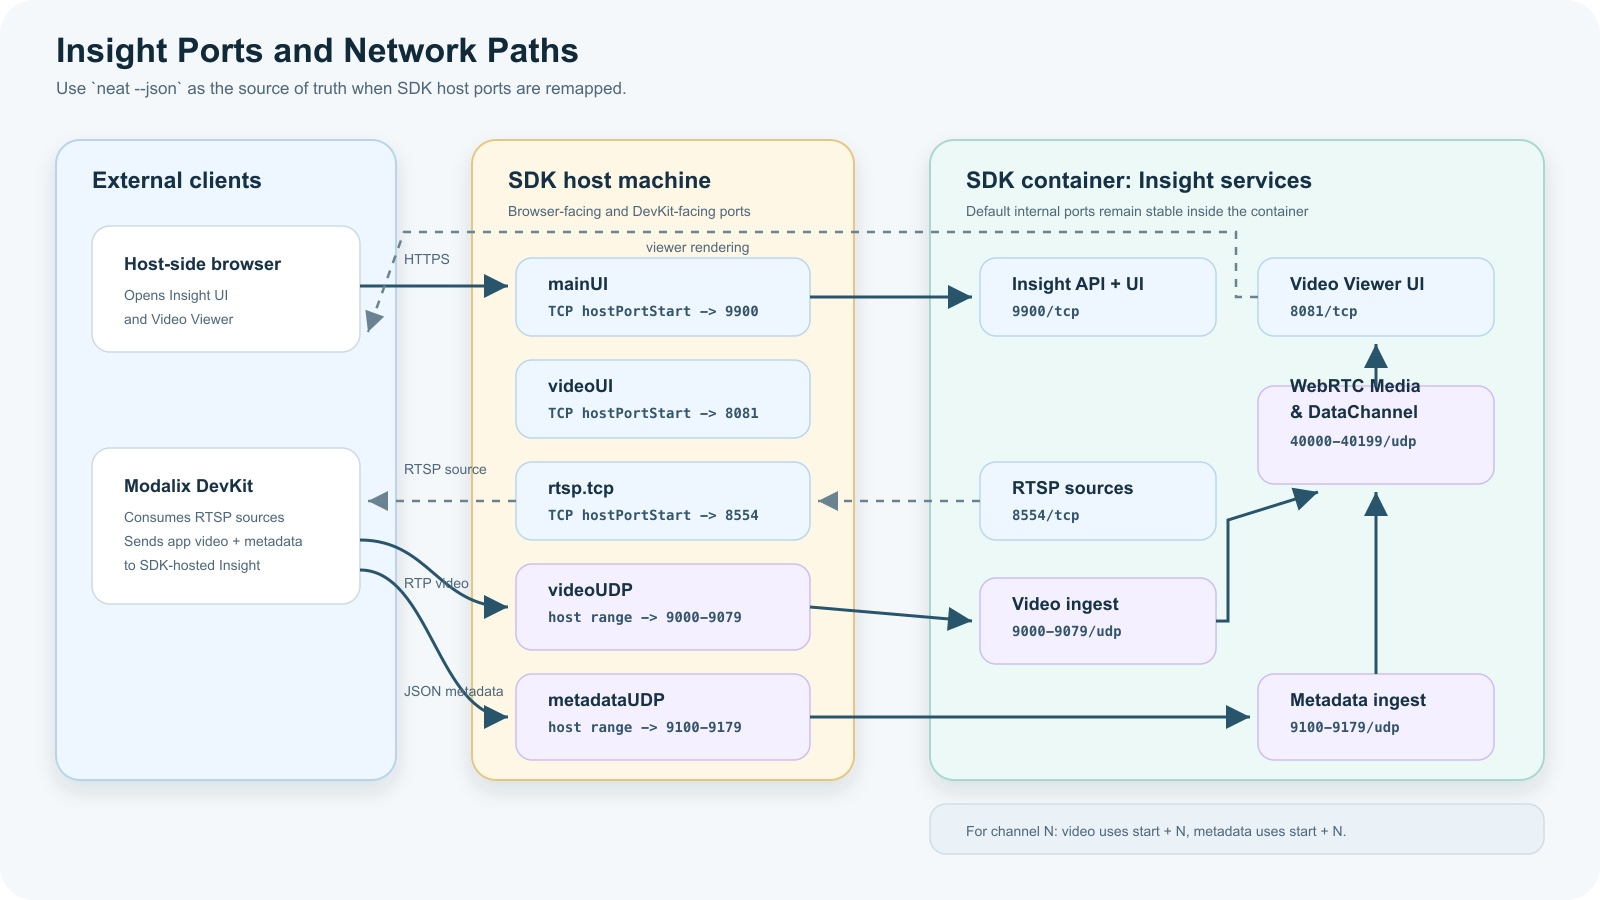
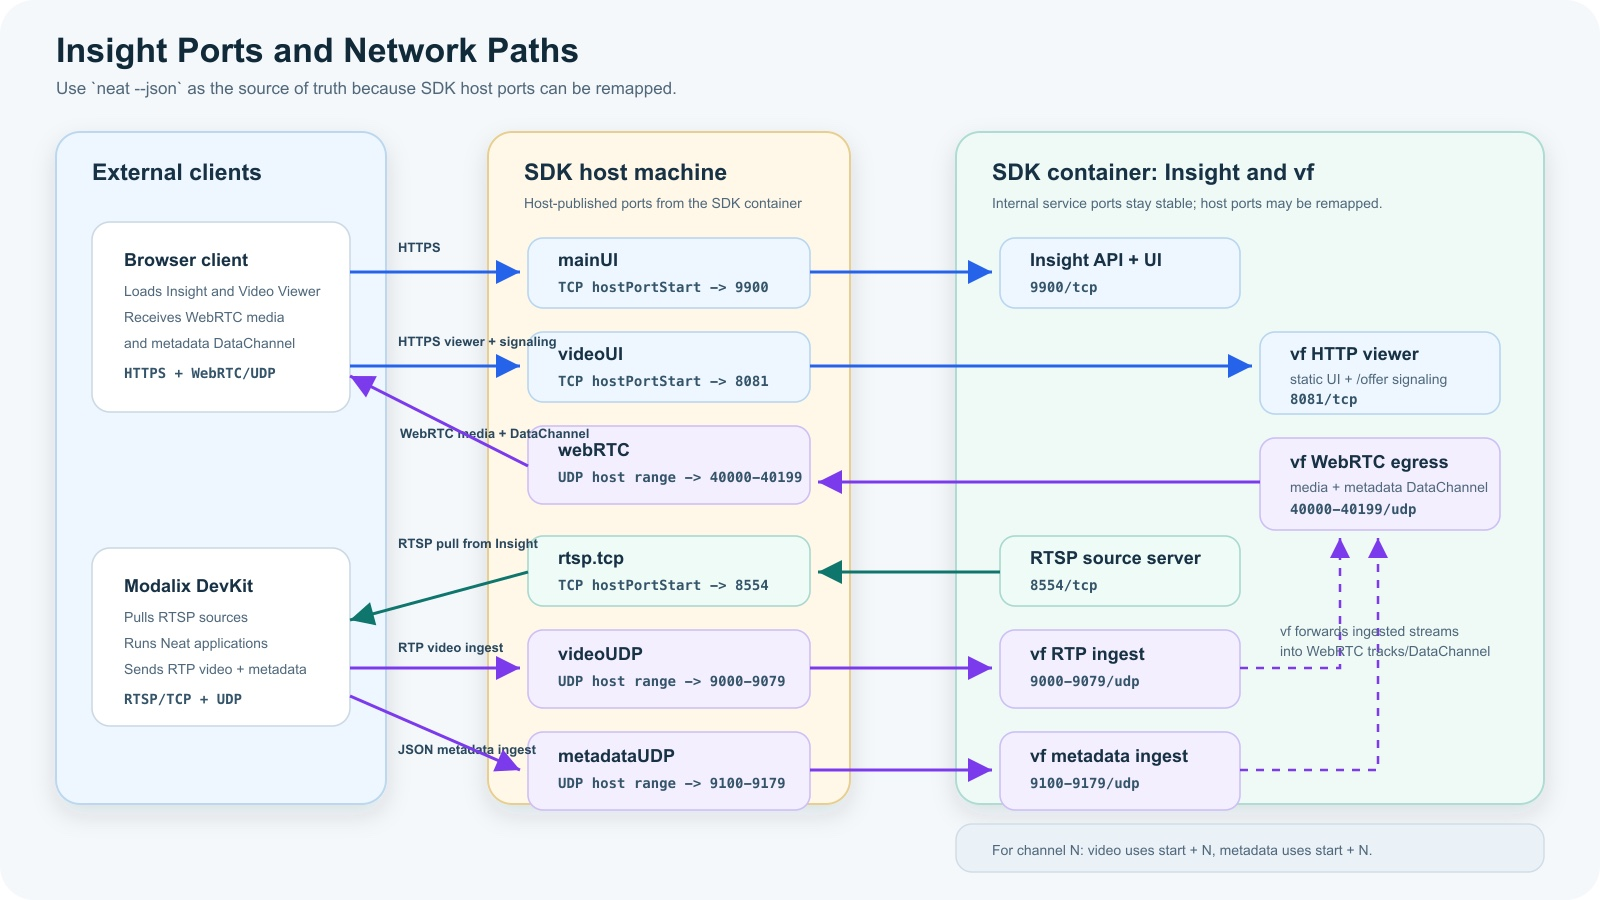
Clarify Insight WebRTC network paths

diff --git a/docs/ports-network.md b/docs/ports-network.md
@@ -8,7 +8,7 @@ sidebar_position: 5
 
 Insight uses several ports during normal operation. The default ports are the ports used inside the SDK container or on a directly installed DevKit. In the Neat Development Environment, the SDK publishes those services onto host ports. If a default host port is already in use, `sima-cli` can allocate another available host port.
 
-![Insight port and network paths between the host-side browser, Modalix DevKit, SDK host machine, and SDK container.](images/insight-ports-network.jpg)
+![Insight port and network paths between the browser client, Modalix DevKit, SDK host machine, and SDK container.](images/insight-ports-network.jpg)
 
 | Port-map name | Default port or range | Protocol | Purpose |
 | --- | --- | --- | --- |
@@ -17,7 +17,7 @@ Insight uses several ports during normal operation. The default ports are the po
 | `rtsp.tcp` | `8554` | RTSP/TCP | RTSP media sources created from uploaded media. |
 | `videoUDP` | `9000-9079` | UDP | Video RTP ingest for viewer channels `0-79`. |
 | `metadataUDP` | `9100-9179` | UDP | Metadata JSON ingest for viewer channels `0-79`. |
-| `webRTC` | `40000-40199` | UDP | WebRTC media transport range. |
+| `webRTC` | `40000-40199` | UDP | WebRTC media and metadata DataChannel egress from vf to the browser. |
 | `webSSH` | `8022` | HTTPS/TCP | Browser shell to a paired DevKit when available. |
 
 ## Find the actual SDK port map
